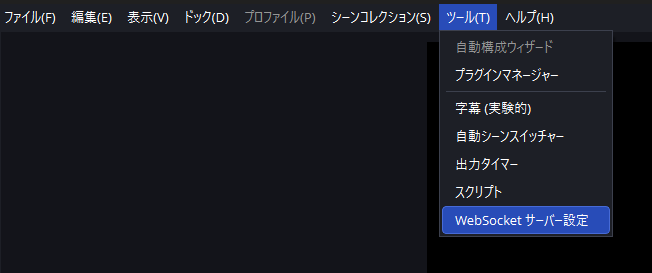
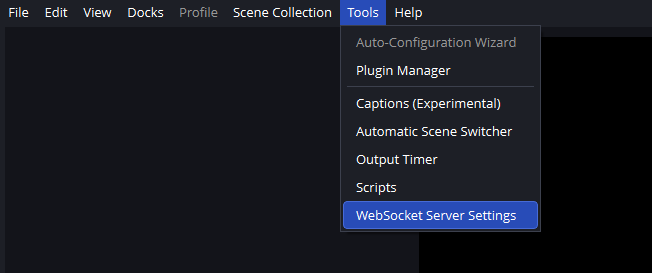
OBS のメニューの英語版の画像に差し替える

Changed region(s): [[0.0, 0.0, 1.0, 1.0], [0.5215, 0.674, 0.6135, 0.7033]]

diff --git a/i18n/en/docusaurus-plugin-content-docs/current/start/setup.md b/i18n/en/docusaurus-plugin-content-docs/current/start/setup.md
@@ -17,7 +17,7 @@ OverRec works OBS through OBS's WebSocket feature. Turn it on once in OBS.
 1. Open **"Tools"** in OBS Studio's menu.
 2. Choose **"WebSocket Server Settings"**.
 
-   ![OBS's menu: WebSocket Server Settings is at the bottom of Tools (shown in Japanese)](../img/obs-menu.png)
+   ![OBS's menu: WebSocket Server Settings is at the bottom of Tools](../img/obs-menu.png)
 
 3. Check **"Enable WebSocket server"**. Leave "Enable Authentication" on.
 4. Press **"Apply"**.
